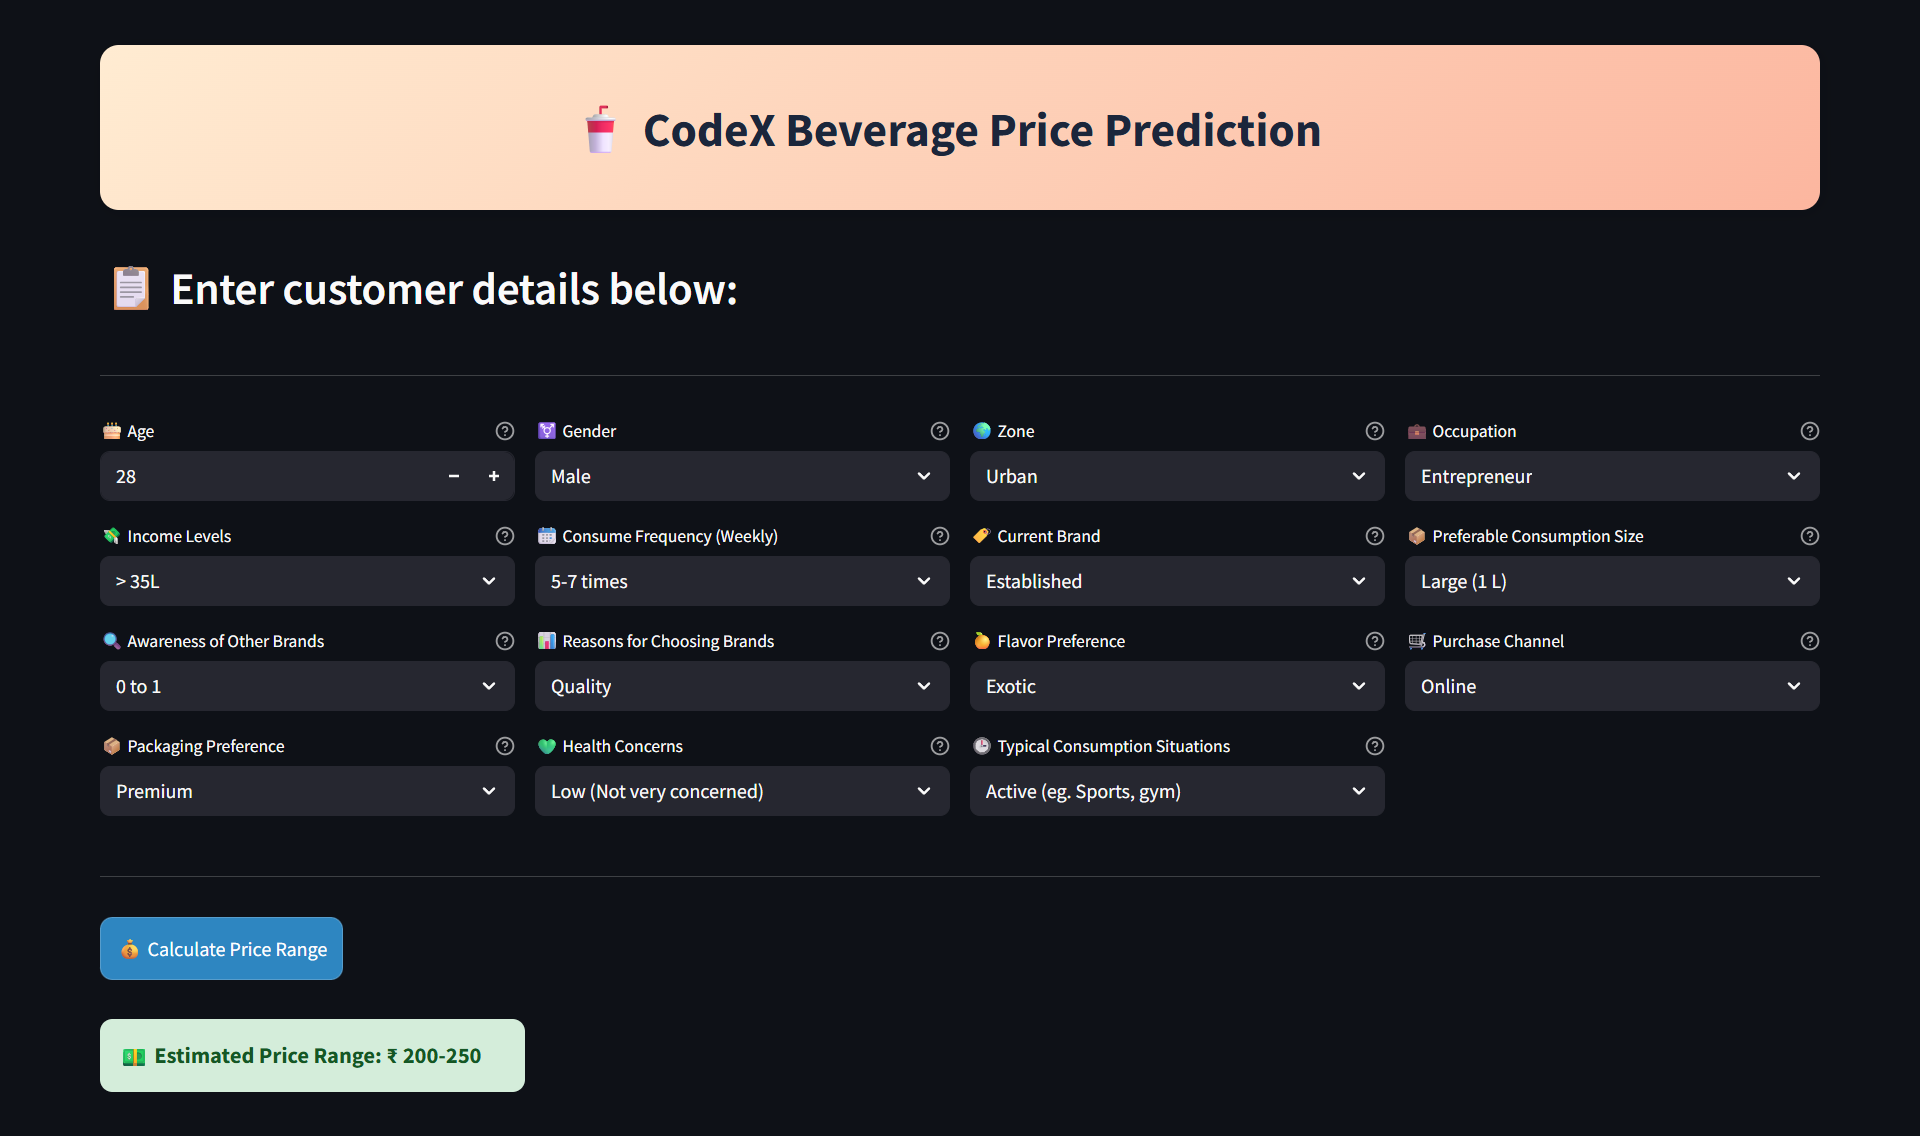
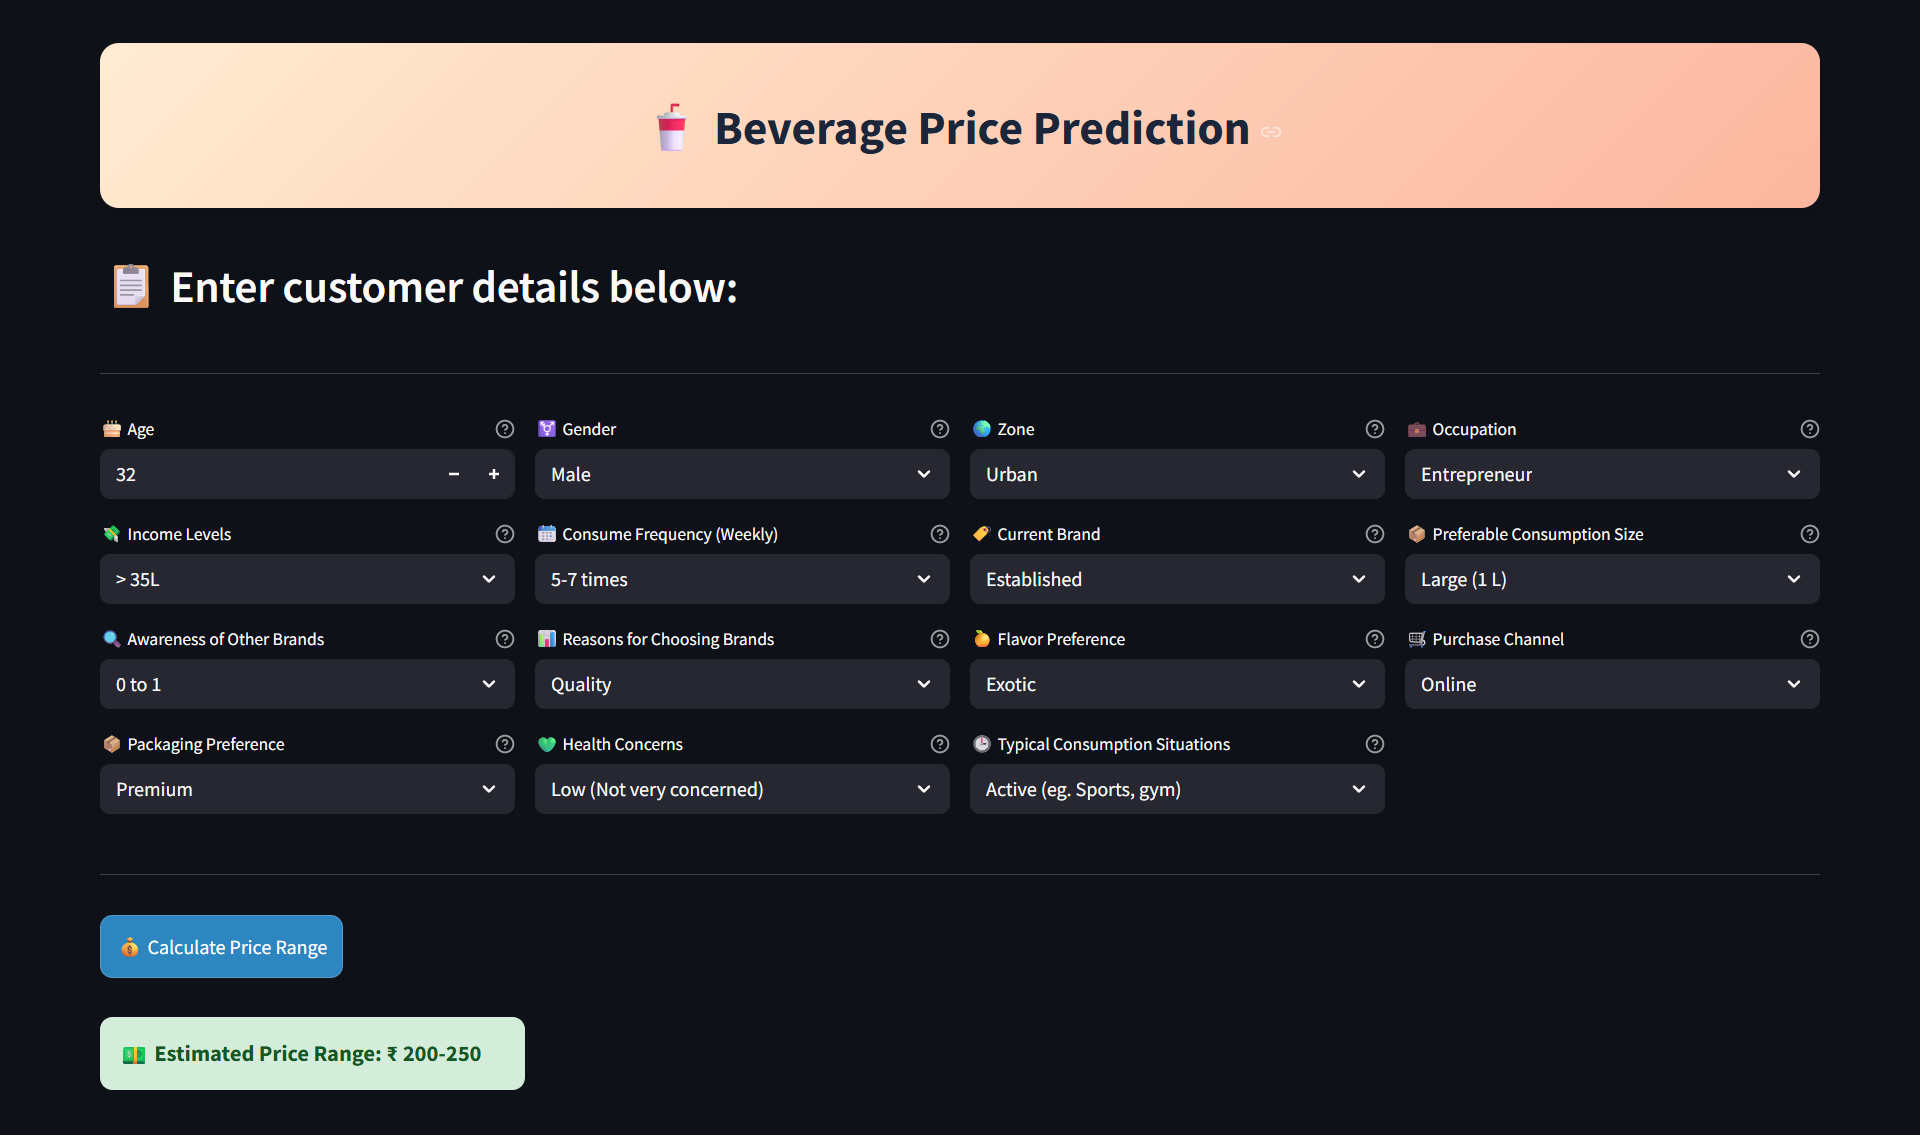
Updated UI

diff --git a/main.py b/main.py
@@ -5,7 +5,7 @@ from prediction_helper import predict
 # Page Config
 # ---------------------------
 st.set_page_config(
-    page_title="CodeX Beverage: Price Prediction",
+    page_title="Beverage: Price Prediction",
     page_icon="🥤",
     layout="wide"
 )
@@ -45,7 +45,7 @@ st.markdown("""
 # ---------------------------
 st.markdown("""
 <div class="title-card">
-    <h1>🥤 CodeX Beverage Price Prediction</h1>
+    <h1>🥤 Beverage Price Prediction</h1>
 </div>
 """, unsafe_allow_html=True)
 
